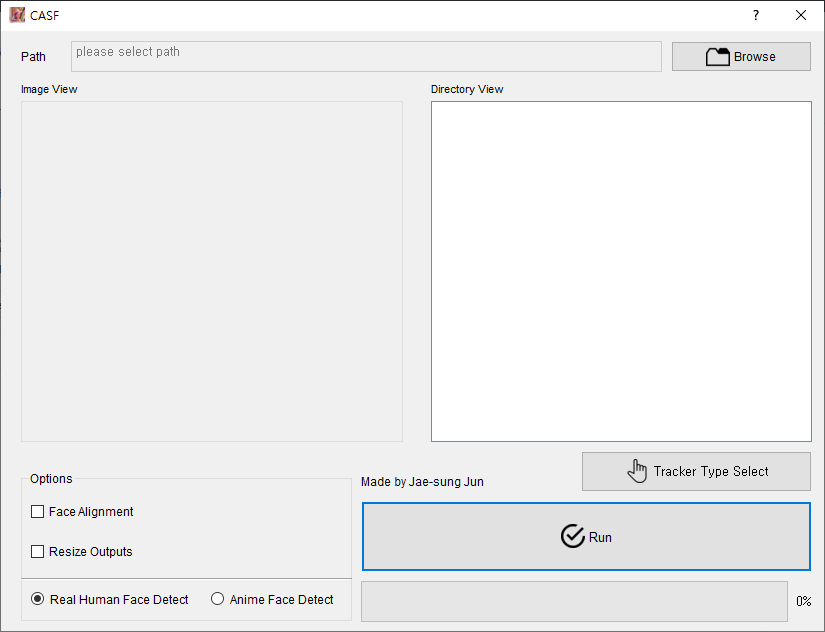
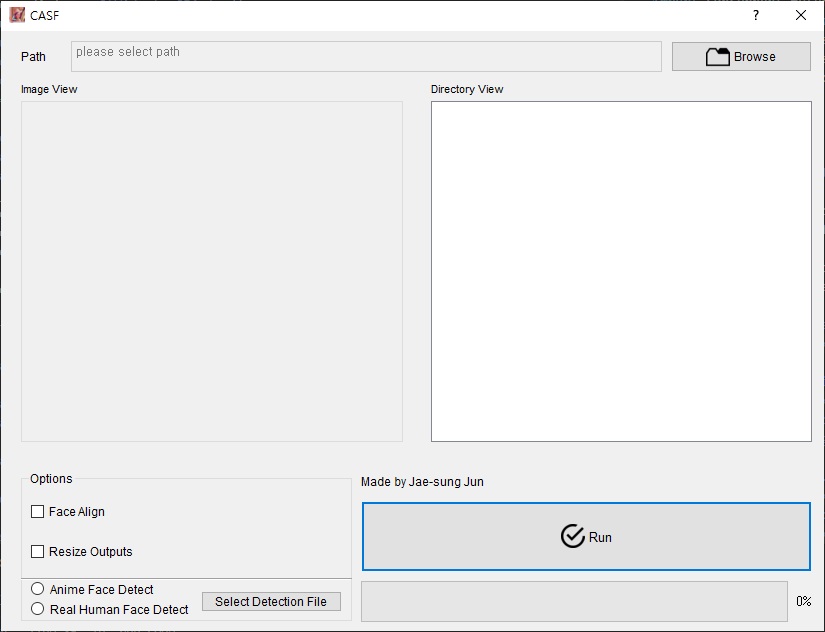
GUI Update

diff --git a/Main.py b/Main.py
@@ -12,18 +12,19 @@
 
 import sys
 from PyQt5 import QtCore, QtGui, QtWidgets
-from PyQt5.QtWidgets import QDialog
+from PyQt5.QtWidgets import QDialog, QMainWindow
 from PyQt5.QtCore import QDir 
 import os
 import ctypes
 import ResizeForm
 import CASF
 
-class Main_Form_Ui(QDialog):
+class Main_Form_Ui(QMainWindow):
     def setupUi(self, Dialog):
 
         Dialog.setObjectName("Dialog")
         Dialog.resize(823, 600)
+        #Dialog.setSizeGripEnabled(True)
 
         self.run_button = QtWidgets.QPushButton(Dialog)
         self.run_button.setGeometry(QtCore.QRect(360, 470, 451, 71))
@@ -129,7 +130,7 @@ class Main_Form_Ui(QDialog):
         self.directory_tree_view.setWindowTitle("directory view")
 
         self.image_view_label = QtWidgets.QLabel(Dialog)
-        self.image_view_label.setGeometry(QtCore.QRect(20, 50, 81, 16))
+        self.image_view_label.setGeometry(QtCore.QRect(20, 50, 250, 16))
         font = QtGui.QFont()
         font.setFamily("Arial")
         font.setPointSize(8)
@@ -158,7 +159,7 @@ class Main_Form_Ui(QDialog):
         Dialog.setWindowTitle(_translate("Dialog", "CASF"))
         self.run_button.setText(_translate("Dialog", "Run"))
         self.group_box.setTitle(_translate("Dialog", "Options"))
-        self.face_align_checkBox.setText(_translate("Dialog", "Face Alignment"))
+        self.face_align_checkBox.setText(_translate("Dialog", "Face Align"))
         self.resize_checkBox.setText(_translate("Dialog", "Resize Outputs"))
         self.path_label.setText(_translate("Dialog", "Path"))
         self.browse_button.setText(_translate("Dialog", "Browse"))
@@ -179,10 +180,13 @@ class Main_Form_Event_Handle:
 
         self.main_dialog = main_dialog
         
+        
+        self.main_dialog.statusBar()
         self.main_dialog.browse_button.clicked.connect(self.browseFileDialog)
         self.main_dialog.directory_tree_view.clicked.connect(self.directoryViewClick)
         self.main_dialog.resize_checkBox.stateChanged.connect(self.resizeCheckbox)
         self.main_dialog.custom_detection_file.clicked.connect(self.custom_detection_fileSelect)
+        self.main_dialog.face_align_checkBox.clicked.connect(self.faceAlignCheckboxChecked)
         
         self.main_dialog.real_face_radio_button.clicked.connect(lambda: self.detectionFileCheck("real"))
         self.main_dialog.anime_face_radio_button.clicked.connect(lambda: self.detectionFileCheck("anime"))
@@ -226,6 +230,10 @@ class Main_Form_Event_Handle:
         elif os.path.exists(self.path) == False:
             self.errorMessageBox("Directory Load Error", "Please select other directory")
     
+    def faceAlignCheckboxChecked(self):
+        if self.main_dialog.face_align_checkBox.isChecked() == True:
+            QtWidgets.QMessageBox.information(self.main_dialog, 'Information', "Face Align option is recommends at detect faces.", QtWidgets.QMessageBox.Ok)
+    
     def directoryViewClick(self, index):
         path = self.main_dialog.sender().model().filePath(index)
         fname, ext = os.path.splitext(path)
@@ -234,7 +242,10 @@ class Main_Form_Event_Handle:
             image_profile = image_profile.scaledToHeight(381)
             image_profile = image_profile.scaledToWidth(341)
             self.main_dialog.sample_photo_view.setPixmap(image_profile)
+            dir, fname = os.path.split(fname)
+            self.main_dialog.image_view_label.setText(fname + ext)
         else:
+            self.main_dialog.image_view_label.setText("Image View")
             self.main_dialog.sample_photo_view.setText("This File is Not Support")
 
     def resizeCheckbox(self):
@@ -247,6 +258,8 @@ class Main_Form_Event_Handle:
             self.wh = resize_output.getOutput()
 
     def detectionFileCheck(self, detection_object):
+        self.main_dialog.custom_detection_file.setText("Select Detection File")
+        self.main_dialog.custom_detection_file.setStyleSheet("")
         if detection_object == "real":
             self.detection_file = ".\detection-files\haarcascade_frontalface_default.xml"
         elif detection_object == "anime":
@@ -268,6 +281,7 @@ class Main_Form_Event_Handle:
         if os.path.isfile(fname[0]):
             self.detection_file = fname[0]
             self.main_dialog.custom_detection_file.setText("Selected")
+            self.main_dialog.custom_detection_file.setStyleSheet("background-color:#ffcece")
         elif fname[0] == "":
             pass
         elif not os.path.isfile(fname[0]):
@@ -296,7 +310,7 @@ class Main_Form_Event_Handle:
             err = True
 
         elif self.options['detection_file'] == "":
-            self.errorMessageBox("Error", "Please select your detection object type ({0}, {1})".format("anime face", "real human face"))
+            self.errorMessageBox("Error", "Please select your detection file")
             err = True
 
         if self.options['resize_output'] == True:

diff --git a/CASF.py b/CASF.py
@@ -19,7 +19,6 @@ class CASF_Main():
             path_list, file_list = get_image_path.result()
             face_cascade = detection_file_load.result()
             detect_face = executor.submit(lambda p: self.detectFace(*p), [options, path_list, file_list, face_cascade, dialog] )
-            is_complete = detect_face.result()
                 
         if get_image_path.exception() != None :
             QMessageBox.about(dialog, "Error", "File Information Load Error")
